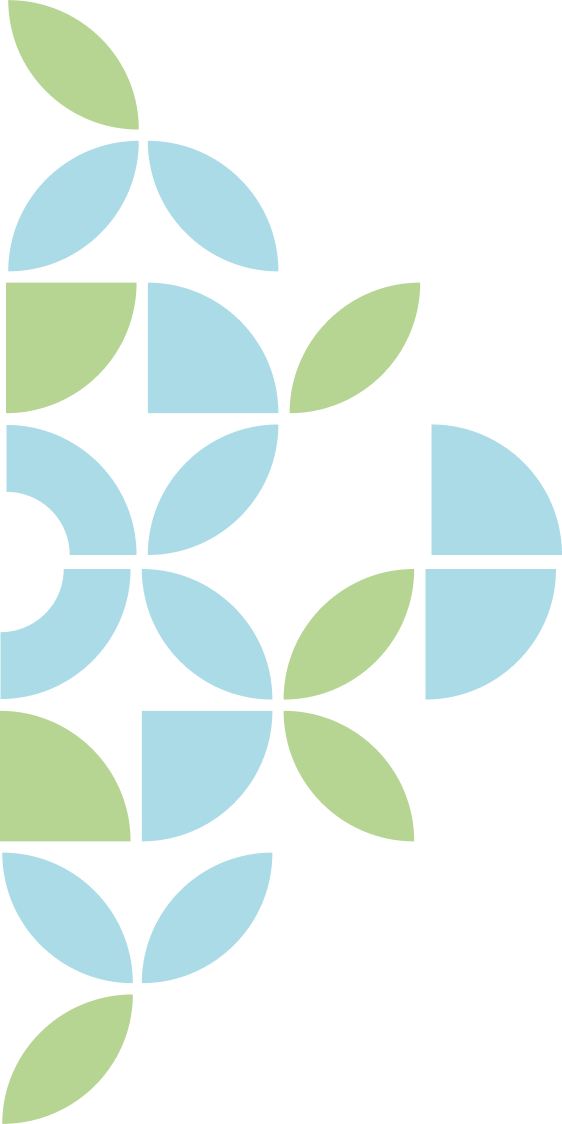
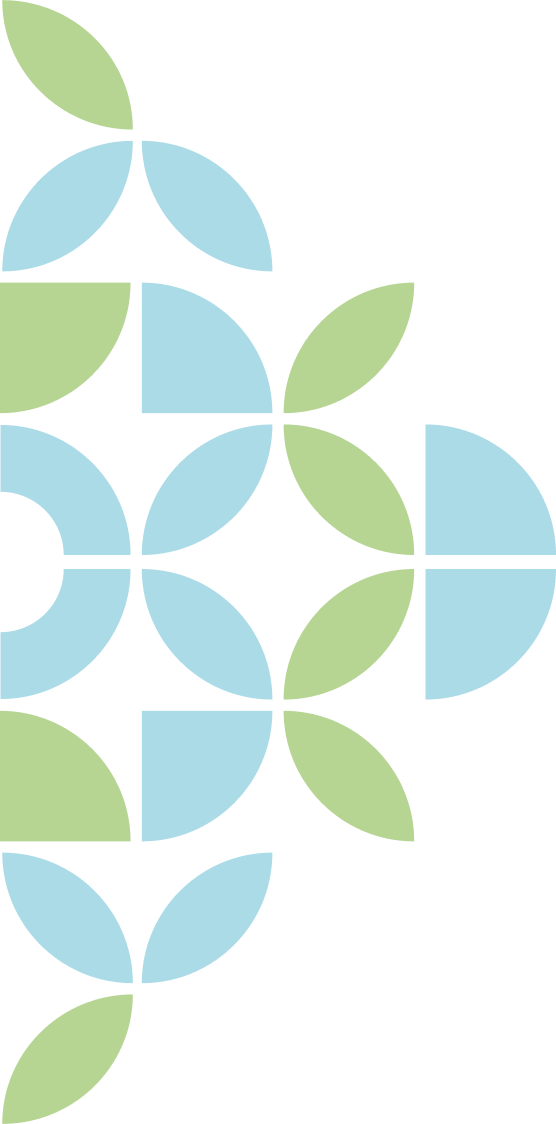
<fix(porto): deco desktop>

diff --git a/src/components/portofolio/ProjectStructure.js b/src/components/portofolio/ProjectStructure.js
@@ -1,4 +1,5 @@
 // Import Components
+import ImgF from "../global/ImgF";
 import ProjectStructureList from "../misc/ProjectStructureList";
 
 // Import Configs
@@ -9,6 +10,48 @@ export default function ProjectStructure() {
     <section className="relative hidden lg:flex justify-center items-center h-[200vh]">
       {/* Background */}
       {createBackground("dark")}
+
+      <div className="absolute top-0 left-0 w-[20vw] opacity-[30%] 2xl:w-[307px]">
+        <ImgF
+          alt="portofolio shard upper left"
+          src="/img/portofolio/shard_upper_left.png"
+        />
+      </div>
+
+      <div className="absolute top-0 right-0 w-[18vw] opacity-[30%] 2xl:w-[276px]">
+        <ImgF
+          alt="portofolio shard upper right"
+          src="/img/portofolio/shard_upper_right.png"
+        />
+      </div>
+
+      <div className="absolute top-[40vw] right-[18vw] w-[4vw] rotate-[45deg] 2xl:w-[61px] 2xl:right-[276px]">
+        <ImgF
+          alt="portofolio star green 1"
+          src="/img/portofolio/type1green.png"
+        />
+      </div>
+
+      <div className="absolute top-[25vw] left-[8vw] w-[10vw] 2xl:w-[154px] 2xl:left-[123px]">
+        <ImgF
+          alt="portofolio star blue 1"
+          src="/img/portofolio/type2blue.png"
+        />
+      </div>
+
+      <div className="absolute bottom-[27vw] right-[14vw] w-[8vw] rotate-[45deg] 2xl:w-[122px] 2xl:right-[215px]">
+        <ImgF
+          alt="portofolio star green 2"
+          src="/img/portofolio/type1green.png"
+        />
+      </div>
+
+      <div className="absolute bottom-[34vw] left-[12vw] w-[4vw] rotate-[-12deg] 2xl:w-[61px] 2xl:left-[184px]">
+        <ImgF
+          alt="portofolio star blue 2"
+          src="/img/portofolio/type2blue.png"
+        />
+      </div>
 
       <div className="flex flex-col justify-center w-[40%] 2xl:w-[614px]">
         <h1 className="text-primary text-center text-[4.9vw]/[4.8vw] font-avenirBlack 2xl:text-[75px]/[64.5px]">

diff --git a/src/components/misc/LookForward.js b/src/components/misc/LookForward.js
@@ -4,6 +4,7 @@
 import { useRouter, usePathname } from "next/navigation";
 
 // Import Components
+import ImgF from "../global/ImgF";
 import Button from "../global/Button";
 
 // Import Configs
@@ -30,10 +31,28 @@ export default function LookForward({ theme }) {
       ? " text-white "
       : " txt-primary ";
 
+  const topLeftShard = pathname === "/portofolio" ?
+  <div className="absolute left-0 -top-[25vw] w-[25vw] opacity-[40%] 2xl:-top-[384px] 2xl:w-[384px]">
+    <ImgF
+      alt="portofolio shard left"
+      src="/img/portofolio/shard1.png"
+    />
+  </div> : <></>
+
+const topRightShard = pathname === "/portofolio" ?
+<div className="absolute right-0 -top-[15vw] w-[15vw] opacity-[25%] 2xl:-top-[230px] 2xl:w-[230px]">
+  <ImgF
+    alt="portofolio shard left"
+    src="/img/portofolio/shard2.png"
+  />
+</div> : <></>
+
   return (
     <section className="w-full h-fit">
       <div className="relative hidden lg:flex w-full h-full items-center justify-center">
         {/* Background */}
+        {topLeftShard}
+        {topRightShard}
         <div className={"absolute -z-[998] w-full h-full " + bgTheme} />
 
         {/* Content */}
